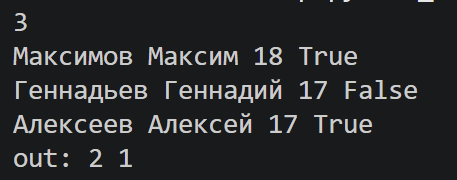
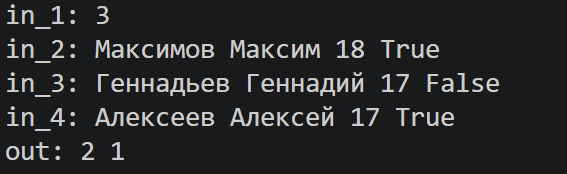
06 update

diff --git a/src/lab01/06.py b/src/lab01/06.py
@@ -1,9 +1,10 @@
-n = int(input())
+n = int(input("in_1: "))
 a = []
 cntT = 0
 cntF = 0
 for i in range(n):
-    a.append(input())
+    value = input(f"in_{i + 2}: ")
+    a.append(value)
     if a[i].split()[-1] == 'True':
         cntT += 1
     else:
